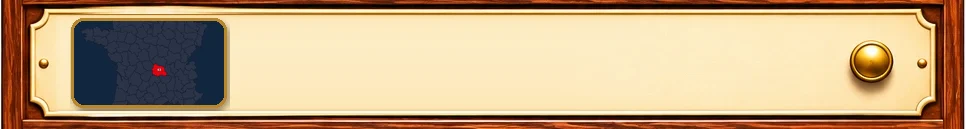
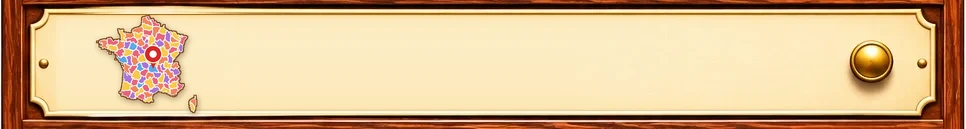
Boutons « Faire découvrir » et « Inviter un ami », carte de France colorée sur les tiroirs [skip ci]
Claude-Session: https://claude.ai/code/session_01LcZiM9uqkYe2KDg8dKQA5T

Changed region(s): [[0.0621, 0.124, 0.2484, 0.8992]]

diff --git a/index.html b/index.html
@@ -912,6 +912,19 @@ html.catalogue-open {
 .drawer.open .dl small { color:#9a3412; font-weight:700; }
 .subDrawers { background:#3d1f0b; padding:6px 4.5% 8px; box-shadow:inset 0 8px 14px rgba(0,0,0,.45); }
 .subDrawers .drawer { margin:3px 0; border-radius:4px; overflow:hidden; box-shadow:0 2px 4px rgba(0,0,0,.4); }
+.shareRow { display:flex; flex-wrap:wrap; justify-content:center; gap:12px; margin:0 auto 28px; width:min(100%,690px); }
+.shareBtn { flex:1 1 260px; min-height:58px; border-radius:16px; border:2px solid #b8862f; background:linear-gradient(#fff6dd,#f3dfae); color:#4a2c10; font:800 17px Sora,system-ui,sans-serif; box-shadow:0 3px 0 #9c6b22, 0 6px 14px rgba(80,45,10,.18); padding:0 18px; }
+.shareBtn:hover { filter:brightness(1.05); }
+.shareBtn:active { transform:translateY(2px); box-shadow:0 1px 0 #9c6b22; }
+.shareOv { position:fixed; inset:0; z-index:200; display:grid; place-items:center; padding:16px; background:rgba(25,18,8,.55); }
+.shareCard { position:relative; width:min(100%,420px); background:#fffaf0; border:2px solid #d9b56a; border-radius:22px; padding:22px 20px 20px; color:#3b2610; box-shadow:0 18px 40px rgba(0,0,0,.35); }
+#shareOv .shareCard h3 { color:#3b2610; margin:0 0 8px; font:800 22px Sora,system-ui,sans-serif; }
+.shareMsg { margin:0 0 16px; font-size:16px; line-height:1.45; background:#f6ecd6; border-radius:12px; padding:10px 12px; }
+.shareOpts { display:grid; grid-template-columns:1fr 1fr; gap:10px; }
+.shareOpt { display:grid; place-items:center; min-height:54px; border-radius:14px; font:800 16px Sora,system-ui,sans-serif; color:#fff; text-decoration:none; padding:0 10px; }
+.shareOpt.wa { background:#1f9d55; } .shareOpt.sms { background:#2f7fd8; } .shareOpt.mail { background:#7a52c7; } .shareOpt.fb { background:#1b5fc9; }
+.shareOpt.copy { grid-column:1 / -1; background:#6b4520; }
+.shareClose { position:absolute; top:6px; right:8px; min-height:auto; padding:4px 10px; background:none; color:#6b4520; font-size:28px; line-height:1; }
 .cabinetNote { text-align:center; color:#6b4520; font:600 15px Sora,system-ui,sans-serif; margin:14px 0 24px; }
 @media (max-width:420px) { .drawer:not(.open) .dl small { display:none; } }
 @media (prefers-reduced-motion:no-preference) { .subDrawers { animation:slideOut .35s ease-out; } @keyframes slideOut { from { opacity:0; transform:translateY(-10px); } } }
@@ -937,6 +950,24 @@ html.catalogue-open {
       <img class="cabinet-base" src="cabinet/socle.webp" alt="">
     </section>
     <p class="cabinetNote">Touchez un tiroir pour l’ouvrir.</p>
+    <div class="shareRow">
+      <button type="button" class="shareBtn" data-share="decouvrir"><span aria-hidden="true">📣</span> Faire découvrir le jeu à un ami</button>
+      <button type="button" class="shareBtn" data-share="inviter"><span aria-hidden="true">🎲</span> Inviter un ami à jouer avec moi</button>
+    </div>
+    <div class="shareOv hidden" id="shareOv" role="dialog" aria-modal="true" aria-labelledby="shareTitle">
+      <div class="shareCard">
+        <button type="button" class="shareClose" id="shareClose" aria-label="Fermer">×</button>
+        <h3 id="shareTitle">Envoyer à un ami</h3>
+        <p class="shareMsg" id="shareMsg"></p>
+        <div class="shareOpts">
+          <a class="shareOpt wa" id="shWa" target="_blank" rel="noopener">WhatsApp</a>
+          <a class="shareOpt sms" id="shSms">SMS</a>
+          <a class="shareOpt mail" id="shMail">E-mail</a>
+          <a class="shareOpt fb" id="shFb" target="_blank" rel="noopener">Facebook</a>
+          <button type="button" class="shareOpt copy" id="shCopy">Copier le message</button>
+        </div>
+      </div>
+    </div>
   </main>
   <section id="home" class="view hidden">
     <p class="credits">Crédits photos : moaï de Rano Raraku, photo de EzequielEsposito sur <a href="https://commons.wikimedia.org/wiki/File:Moai_rano_raraku.jpg" target="_blank" rel="noopener">Wikimedia Commons</a>, licence <a href="https://creativecommons.org/licenses/by/4.0/deed.fr" target="_blank" rel="noopener">CC BY 4.0</a>, recadrée. Autres photos : domaine public ou créées pour Méli-Méninges.</p>
@@ -2300,6 +2331,44 @@ renderGallery();
 
 renderHome();
 }
+</script>
+<script>
+(function(){
+  const url = new URL('./', location.href).href.replace(/index\.html$/, '');
+  const MSG = {
+    decouvrir: { t: 'Faire découvrir le jeu', m: 'J’ai découvert Méli-Méninges, un site de jeux gratuit et sans inscription : belote, loto, pendu, dames, puzzles, départements… Essaie, c’est super ! 👉 ' },
+    inviter:   { t: 'Inviter un ami à jouer', m: 'Viens jouer avec moi à Méli-Méninges ! Une partie de loto, de belote, de dames ou de pendu ? C’est gratuit et sans inscription 👉 ' }
+  };
+  const $ = id => document.getElementById(id);
+  const ov = $('shareOv');
+  function openBox(kind){
+    const k = MSG[kind], text = k.m + url;
+    $('shareTitle').textContent = k.t;
+    $('shareMsg').textContent = text;
+    $('shWa').href = 'https://wa.me/?text=' + encodeURIComponent(text);
+    $('shSms').href = 'sms:?&body=' + encodeURIComponent(text);
+    $('shMail').href = 'mailto:?subject=' + encodeURIComponent(kind === 'inviter' ? 'Viens jouer avec moi à Méli-Méninges !' : 'Un super site de jeux : Méli-Méninges') + '&body=' + encodeURIComponent(text);
+    $('shFb').href = 'https://www.facebook.com/sharer/sharer.php?u=' + encodeURIComponent(url);
+    $('shCopy').textContent = 'Copier le message';
+    $('shCopy').onclick = async () => {
+      try { await navigator.clipboard.writeText(text); }
+      catch (e) { const ta = document.createElement('textarea'); ta.value = text; document.body.appendChild(ta); ta.select(); try { document.execCommand('copy'); } catch (_) {} ta.remove(); }
+      $('shCopy').textContent = 'Message copié ✓';
+    };
+    ov.classList.remove('hidden');
+  }
+  document.querySelectorAll('.shareBtn').forEach(b => b.addEventListener('click', async () => {
+    const kind = b.dataset.share, k = MSG[kind];
+    if (navigator.share && matchMedia('(pointer:coarse)').matches) {
+      try { await navigator.share({ title: 'Méli-Méninges', text: k.m.replace(/ 👉 $/, ''), url }); return; }
+      catch (e) { if (e && e.name === 'AbortError') return; }
+    }
+    openBox(kind);
+  }));
+  $('shareClose').addEventListener('click', () => ov.classList.add('hidden'));
+  ov.addEventListener('click', e => { if (e.target === ov) ov.classList.add('hidden'); });
+  document.addEventListener('keydown', e => { if (e.key === 'Escape') ov.classList.add('hidden'); });
+})();
 </script>
 </body>
 </html>
